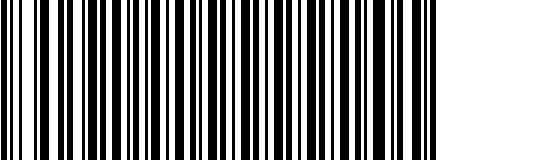
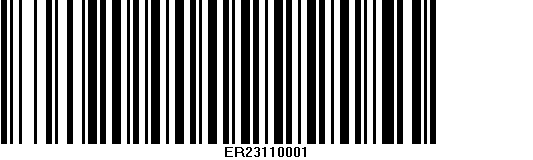
commit

Changed region(s): [[0.0, 0.0, 0.8405, 1.0]]

diff --git a/IBS/Controllers/BarcodeGenerationController.cs b/IBS/Controllers/BarcodeGenerationController.cs
@@ -140,8 +140,9 @@ namespace IBS.Controllers
             return Json(new { status = false, responseText = "Oops Somthing Went Wrong !!" });
         }
 
-        public IActionResult GenerateBarcode(string Barcode, int quantity)
+        public IActionResult GenerateBarcode(string Barcode, int quantity,string caseno,int callsno,string calldate)
         {
+            SaveBarcodeGenerated(Barcode, quantity, caseno, callsno, calldate);
             List<System.Drawing.Image> images = new List<System.Drawing.Image>();
 
             for (int i = 0; i < quantity; i++)
@@ -152,8 +153,8 @@ namespace IBS.Controllers
                 BarcodeLib.TYPE type = BarcodeLib.TYPE.CODE128B;
 
                 b.Alignment = BarcodeLib.AlignmentPositions.LEFT;
-                b.IncludeLabel = false;
-                b.LabelPosition = BarcodeLib.LabelPositions.BOTTOMLEFT;
+                b.IncludeLabel = true;
+                b.LabelPosition = BarcodeLib.LabelPositions.BOTTOMCENTER;
 
                 int widthPixel = (int)ConvertPointToPixel(barcodeWidth);
                 int HeightPixel = (int)ConvertPointToPixel(barcodeHeight);
@@ -172,7 +173,31 @@ namespace IBS.Controllers
 
             return File(document, "application/pdf", "barcode.pdf");
         }
-
+        [HttpPost]
+        public IActionResult SaveBarcodeGenerated(string Barcode, int quantity, string caseno, int callsno, string calldate)
+        {
+            string IPADDRESS = this.HttpContext.Connection.RemoteIpAddress.ToString();
+            string USERID = Convert.ToString(UserId);
+            string CREATEDBY = UserName.Trim();
+            
+            try
+            {
+                bool dTResult = BarcodeGen.SaveBarcodeGenerated(Barcode, quantity, caseno, callsno, calldate, IPADDRESS, USERID, CREATEDBY);
+                if (dTResult == true)
+                {
+                    return Json(new { status = true, Id = dTResult });
+                }
+                else
+                {
+                    return Json(new { status = false, Id = dTResult });
+                }
+            }
+            catch (Exception ex)
+            {
+                Common.AddException(ex.ToString(), ex.Message.ToString(), "BarcodeGeneration", "SaveBarcodeGenerated", 1, GetIPAddress());
+            }
+            return Json(new { status = false, responseText = "Oops Somthing Went Wrong !!" });
+        }
         [HttpPost]
         public async Task<IActionResult> GeneratePDF(string htmlContent)
         {
@@ -213,24 +238,30 @@ namespace IBS.Controllers
         {
             using (var ms = new MemoryStream())
             {
-                iTextSharp.text.Rectangle pageSize = new iTextSharp.text.Rectangle(0, 0, barcodeWidth, barcodeHeight);
-                var document = new Document(pageSize, 0, 0, 0, 0);
+                //iTextSharp.text.Rectangle pageSize = new iTextSharp.text.Rectangle(0, 0, barcodeWidth, barcodeHeight);
+                //var document = new Document(pageSize, 0, 0, 0, 0);
 
-                PdfWriter.GetInstance(document, ms).SetFullCompression();
+                //PdfWriter.GetInstance(document, ms).SetFullCompression();
+
+                //document.Open();
+                var document = new iTextSharp.text.Document();
+                PdfWriter pdfWriter = PdfWriter.GetInstance(document, ms);
 
                 document.Open();
 
                 foreach (System.Drawing.Image image in images)
-                {
+                {                    
                     var img = iTextSharp.text.Image.GetInstance(ImageToByteArray(image));
                     document.Add(img);
+                    document.NewPage(); 
+                    
                 }
 
                 if (document.IsOpen()) document.Close();
                 return ms.ToArray();
             }
         }
-
+        
         public byte[] ImageToByteArray(System.Drawing.Image imageIn)
         {
             MemoryStream ms = new MemoryStream();

diff --git a/IBS/Repositories/BarcodeGenerationRepository.cs b/IBS/Repositories/BarcodeGenerationRepository.cs
@@ -67,6 +67,8 @@ namespace IBS.Repositories
                     {
                         BARCODE = Convert.ToString(row["BARCODE"]),
                         CASE_NO = Convert.ToString(row["CASE_NO"]),
+                        CALL_RECV_DT = Convert.ToString(row["call_recv_dt"]),
+                        CALL_SNO = Convert.ToInt32(row["call_sno"]),
                         CURRENT_DATE = Convert.ToString(row["CURRENT_DATE"]),
                         INSPECTOR_CUSTOMER = Convert.ToString(row["INSPECTOR_CUSTOMER"]),
                         DESCRIPTION = Convert.ToString(row["DESCRIPTION"]),
@@ -405,6 +407,32 @@ namespace IBS.Repositories
                 }
 
             }
+            return true;
+        }
+        public bool SaveBarcodeGenerated(string Barcode, int quantity, string caseno, int callsno, string calldate, string IPADDRESS, string USERID, string CREATEDBY)
+        {
+            calldate = Convert.ToDateTime(calldate).ToString("MM/dd/yyyy");
+            try
+            {
+                //string BarCodeNo = GenerateBarCodeNo(BarcodeGenerate);
+                OracleParameter[] par = new OracleParameter[9];
+                par[0] = new OracleParameter("p_BARCODE_NO", OracleDbType.Varchar2, Barcode, ParameterDirection.Input);
+                par[1] = new OracleParameter("p_QTY", OracleDbType.Int32, quantity, ParameterDirection.Input);
+                par[2] = new OracleParameter("p_CASE_NO", OracleDbType.Varchar2, caseno, ParameterDirection.Input);
+                par[3] = new OracleParameter("p_CALL_SNO", OracleDbType.Int32, callsno, ParameterDirection.Input);
+                par[4] = new OracleParameter("p_CALL_DATE", OracleDbType.Date, calldate, ParameterDirection.Input);
+                par[5] = new OracleParameter("p_CREATEDDATE", OracleDbType.Date, DateTime.Now, ParameterDirection.Input);
+                par[6] = new OracleParameter("p_CREATEDBY", OracleDbType.Varchar2, CREATEDBY, ParameterDirection.Input);
+                par[7] = new OracleParameter("p_USERID", OracleDbType.Varchar2, USERID, ParameterDirection.Input);
+                par[8] = new OracleParameter("p_IPADDRESS", OracleDbType.Varchar2, IPADDRESS, ParameterDirection.Input);
+                var ds = DataAccessDB.ExecuteNonQuery("InsertBarcodeGenerated", par, 1);
+            }
+
+            catch (Exception ex)
+            {
+                return false;
+            }
+
             return true;
         }
     }

diff --git a/IBS/Controllers/LabReportsController.cs b/IBS/Controllers/LabReportsController.cs
@@ -70,6 +70,7 @@ namespace IBS.Controllers
             else if (ReportType == "SummNR") model.ReportTitle = "SUMMARY OF ONLINE PAYMENT IN NR";
             else if (ReportType == "LabInv") model.ReportTitle = "LAB INVOICE REPORT";
             else if (ReportType == "LabInfo") model.ReportTitle = "LAB SAMPLE INFO DETAILS";
+            else if (ReportType == "Barcode") model.ReportTitle = "BARCODE SUMMARY REPORT";
             return View(model);
     }
         public IActionResult LabRegisterReport(string ReportType, string wFrmDtO, string wToDt, string rdbIEWise, string rdbPIE, string rdbVendWise, string rdbPVend, string rdbLabWise, string rdbPLab, string rdbPending, string rdbPaid, string rdbDue, string rdbPartlyPaid, string lstTStatus, string lstIE, string ddlVender, string lstLab, string from, string to, string Disciplinewise, string rdbPDis, string Discipline)
@@ -246,6 +247,34 @@ namespace IBS.Controllers
             catch (Exception ex)
             {
                 Common.AddException(ex.ToString(), ex.Message.ToString(), "LabReports", "LabSamplePaymentReport", 1, GetIPAddress());
+            }
+            return PartialView(model);
+        }
+        public IActionResult BarcodeReport(string ReportType, string wFrmDtO, string wToDt)
+        {
+            LabReportsModel model = new LabReportsModel();
+            try
+            {
+                ViewBag.From = wFrmDtO;
+                ViewBag.To = wToDt;
+
+                string Region = GetRegionCode;
+                if (Region == "N")
+                { ViewBag.Region = "NORTHERN REGION"; }
+                else if (Region == "S")
+                { ViewBag.Region = "SOUTHERN REGION"; }
+                else if (Region == "E")
+                { ViewBag.Region = "EASTERN REGION"; }
+                else if (Region == "W")
+                { ViewBag.Region = "WESTERN REGION"; }
+                else if (Region == "C")
+                { ViewBag.Region = "CENTRAL REGION"; }
+                
+                model = LabReportsRepository.BarcodeReport(ReportType, wFrmDtO, wToDt, Region);
+            }
+            catch (Exception ex)
+            {
+                Common.AddException(ex.ToString(), ex.Message.ToString(), "LabReports", "BarcodeReport", 1, GetIPAddress());
             }
             return PartialView(model);
         }

diff --git a/IBS/Repositories/LabReportsRRepository.cs b/IBS/Repositories/LabReportsRRepository.cs
@@ -512,5 +512,37 @@ namespace IBS.Repositories
             //}
             return model;
         }
+        public LabReportsModel BarcodeReport(string ReportType, string wFrmDtO, string wToDt, string Regin)
+        {
+
+            LabReportsModel model = new();
+            List<LabReportsModel> lstlab = new();
+
+
+            OracleParameter[] par = new OracleParameter[3];
+            par[0] = new OracleParameter("wDtFr", OracleDbType.NVarchar2, wFrmDtO, ParameterDirection.Input);
+            par[1] = new OracleParameter("wDtTo", OracleDbType.NVarchar2, wToDt, ParameterDirection.Input);
+            par[2] = new OracleParameter("cur", OracleDbType.RefCursor, ParameterDirection.Output);
+
+            var ds = DataAccessDB.GetDataSet("BARCODE_GENERATED_REPORT", par, 2);
+            DataTable dt = ds.Tables[0];
+            lstlab = dt.AsEnumerable().Select(row => new LabReportsModel
+            {
+                barcode_no = row["barcode_no"].ToString(),
+                total_qty = row["total_qty"].ToString(),
+                CASE_NO = row["case_no"].ToString(),
+                createddate = row["createddate"].ToString(),
+                INSPECTOR_CUSTOMER = row["INSPECTOR_CUSTOMER"].ToString(),
+                DESCRIPTION = Convert.ToString(row["DESCRIPTION"]),
+                SEALING_TYPE = row["SEALING_TYPE"].ToString(),
+                RATE = row["RATE"].ToString(),
+                TARGETED_DATE = row["TARGETED_DATE"].ToString(),
+                RTAX = row["RTAX"].ToString(),
+
+            }).ToList();
+            model.lstBarcodeReport = lstlab;
+            
+            return model;
+        }
     }
 }

diff --git a/IBS/Models/LabReportsModel.cs b/IBS/Models/LabReportsModel.cs
@@ -143,5 +143,16 @@ namespace IBS.Models
         public string Discipline { get; set; }
         public List<LabReportsModel> lstLabReport { get; set; }
         public List<LabReportsModel> lstsum { get; set; }
+
+        public string barcode_no { get; set; }
+        public string total_qty { get; set; }
+        public string createddate { get; set; }
+        public string INSPECTOR_CUSTOMER { get; set; }
+        public string DESCRIPTION { get; set; }
+        public string SEALING_TYPE { get; set; }
+        public string RATE { get; set; }
+        public string TARGETED_DATE { get; set; }
+        public string RTAX { get; set; }
+        public List<LabReportsModel> lstBarcodeReport { get; set; }
     }
 }

diff --git a/IBS/Interfaces/ILabReportsRepository.cs b/IBS/Interfaces/ILabReportsRepository.cs
@@ -12,5 +12,6 @@ namespace IBS.Interfaces
         public LabReportsModel OnlinePaymentReport(string ReportType, string wFrmDtO, string wToDt, string Regin);
         public LabReportsModel LabInvoiceReport(string ReportType, string wFrmDtO, string wToDt, string Regin);
         public LabReportsModel LabSamplePaymentReport(string ReportType, string wFrmDtO, string wToDt, string Regin, string lstStatus, string rdbrecvdt);
+        public LabReportsModel BarcodeReport(string ReportType, string wFrmDtO, string wToDt, string Regin);
     }
 }

diff --git a/IBS/Interfaces/IBarcodeGeneration.cs b/IBS/Interfaces/IBarcodeGeneration.cs
@@ -10,5 +10,6 @@ namespace IBS.Interfaces
         bool SaveBarCode(BarcodeGenerate BarcodeGenerate,string IPADDRESS);
         DTResult<BarcodeGenerate> LoadCalculation(DTParameters dtParameters);
         bool InsertDataForLabTran(BarcodeGenerate BarcodeGenerate);
+        bool SaveBarcodeGenerated(string Barcode, int quantity, string caseno, int callsno, string calldate, string IPADDRESS,string USERID,string CREATEDBY);
     }
 }
